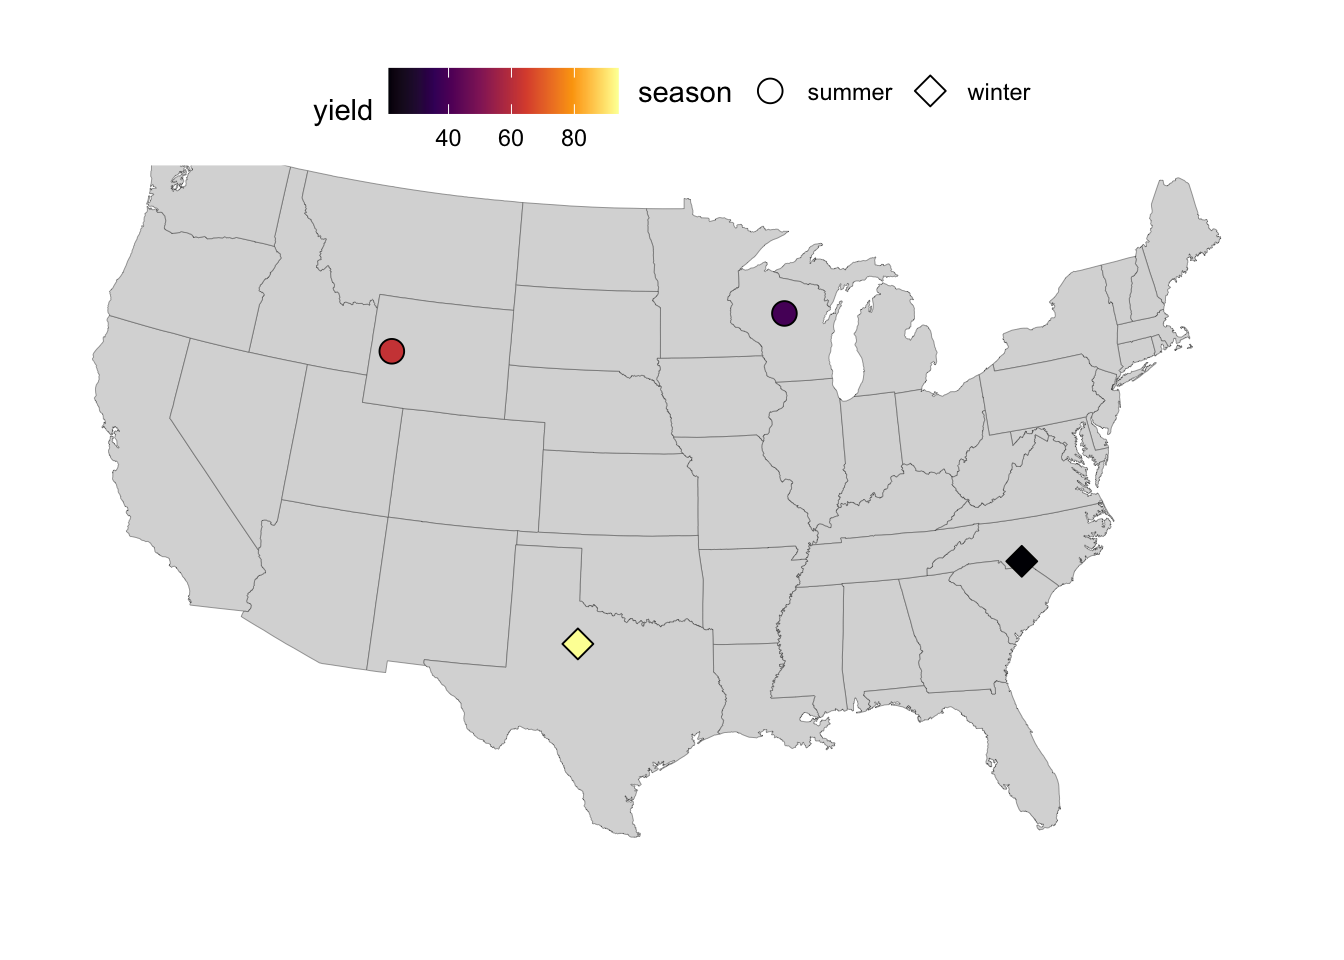
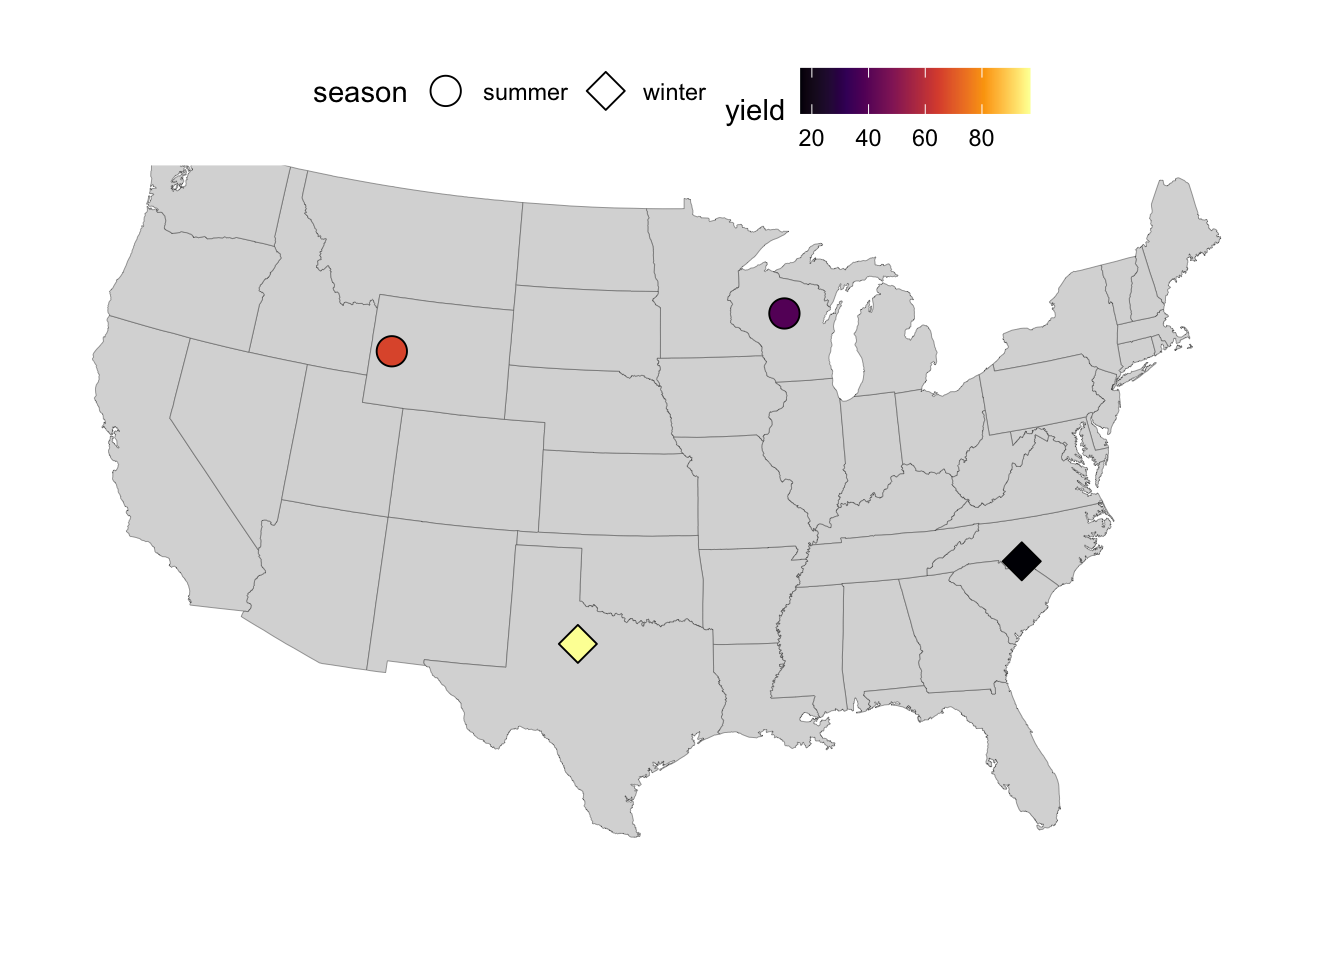
Built site for gh-pages

diff --git a/posts/S09E06_maps_02/index.html b/posts/S09E06_maps_02/index.html
@@ -376,7 +376,7 @@ pre > code.sourceCode > span > a:first-child::before { text-decoration: underlin
 <section id="adding-single-text-labels-and-points" class="level3">
 <h3 class="anchored" data-anchor-id="adding-single-text-labels-and-points">Adding single text labels and points</h3>
 <p>We can add points to a map with the familiar geom <code>geom_point()</code>. We have previoulsy used this to make scatterplots based on data in a data frame, but it can plot points at individually-specified locations, too.</p>
-<p>As a first example, we’ll just add a single point to show where the city of Columbus is, and set its coordinates on the fly (note, we’re not using <code>aes()</code>). We’ll use the <a href="https://bux.osu.edu/color/primary-colors/">OSU scarlet color via it’s Hex code</a> as the color for the point:</p>
+<p>As a first example, we’ll just add a single point to show where the city of Columbus is, and set its coordinates on the fly (<em>outside of</em> <code>aes()</code>). We will use the <a href="https://bux.osu.edu/color/primary-colors/">OSU scarlet color via its Hex code</a> as the color for the point:</p>
 <div class="cell">
 <div class="sourceCode cell-code" id="cb13"><pre class="sourceCode r code-with-copy"><code class="sourceCode r"><span id="cb13-1"><a href="#cb13-1" aria-hidden="true" tabindex="-1"></a>p <span class="sc">+</span></span>
 <span id="cb13-2"><a href="#cb13-2" aria-hidden="true" tabindex="-1"></a>  <span class="fu">geom_point</span>(<span class="at">x =</span> <span class="sc">-</span><span class="fl">82.99</span>, <span class="at">y =</span> <span class="fl">39.99</span>, <span class="at">colour =</span> <span class="st">"#ba0c2f"</span>, <span class="at">size =</span> <span class="dv">4</span>)</span></code><button title="Copy to Clipboard" class="code-copy-button"><i class="bi"></i></button></pre></div>
@@ -388,7 +388,7 @@ pre > code.sourceCode > span > a:first-child::before { text-decoration: underlin
 </div>
 </div>
 </div>
-<p>We can pretty easily add arbitrary text in a similar fashion with <code>geom_text()</code>, in which we specify the text we want to print using the <code>label</code> argument — note that I’m subtracting <code>1</code> from the latitude so the text ends up a bit below the point and not right on top of it:</p>
+<p>We can add arbitrary text labels in a similar fashion, with the geom <code>geom_text()</code>, in which we specify the text that we want to print using the <code>label</code> argument (and note that I’m subtracting <code>1</code> from the latitude so the text ends up a bit below the point and not right on top of it):</p>
 <div class="cell">
 <div class="sourceCode cell-code" id="cb14"><pre class="sourceCode r code-with-copy"><code class="sourceCode r"><span id="cb14-1"><a href="#cb14-1" aria-hidden="true" tabindex="-1"></a>p <span class="sc">+</span></span>
 <span id="cb14-2"><a href="#cb14-2" aria-hidden="true" tabindex="-1"></a>  <span class="fu">geom_point</span>(<span class="at">x =</span> <span class="sc">-</span><span class="fl">82.99</span>, <span class="at">y =</span> <span class="fl">39.99</span>, <span class="at">colour =</span> <span class="st">"#ba0c2f"</span>, <span class="at">size =</span> <span class="dv">4</span>) <span class="sc">+</span></span>
@@ -412,23 +412,23 @@ pre > code.sourceCode > span > a:first-child::before { text-decoration: underlin
 <span id="cb15-3"><a href="#cb15-3" aria-hidden="true" tabindex="-1"></a>  <span class="at">long =</span> <span class="fu">c</span>(<span class="sc">-</span><span class="dv">80</span>, <span class="sc">-</span><span class="dv">100</span>, <span class="sc">-</span><span class="dv">90</span>, <span class="sc">-</span><span class="dv">110</span>),</span>
 <span id="cb15-4"><a href="#cb15-4" aria-hidden="true" tabindex="-1"></a>  <span class="at">lat =</span> <span class="fu">c</span>(<span class="dv">35</span>, <span class="dv">33</span>, <span class="dv">45</span>, <span class="dv">43</span>),</span>
 <span id="cb15-5"><a href="#cb15-5" aria-hidden="true" tabindex="-1"></a>  <span class="at">season =</span> <span class="fu">c</span>(<span class="st">"winter"</span>, <span class="st">"winter"</span>, <span class="st">"summer"</span>, <span class="st">"summer"</span>),</span>
-<span id="cb15-6"><a href="#cb15-6" aria-hidden="true" tabindex="-1"></a>  <span class="at">yield =</span> <span class="fu">c</span>(<span class="dv">21</span>, <span class="dv">94</span>, <span class="dv">39</span>, <span class="dv">62</span>)</span>
+<span id="cb15-6"><a href="#cb15-6" aria-hidden="true" tabindex="-1"></a>  <span class="at">yield =</span> <span class="fu">c</span>(<span class="dv">16</span>, <span class="dv">97</span>, <span class="dv">39</span>, <span class="dv">66</span>)</span>
 <span id="cb15-7"><a href="#cb15-7" aria-hidden="true" tabindex="-1"></a>)</span>
 <span id="cb15-8"><a href="#cb15-8" aria-hidden="true" tabindex="-1"></a></span>
 <span id="cb15-9"><a href="#cb15-9" aria-hidden="true" tabindex="-1"></a>locations</span></code><button title="Copy to Clipboard" class="code-copy-button"><i class="bi"></i></button></pre></div>
 <div class="cell-output cell-output-stdout">
 <pre><code>  location long lat season yield
-1      L01  -80  35 winter    21
-2      L02 -100  33 winter    94
+1      L01  -80  35 winter    16
+2      L02 -100  33 winter    97
 3      L03  -90  45 summer    39
-4      L04 -110  43 summer    62</code></pre>
+4      L04 -110  43 summer    66</code></pre>
 </div>
 </div>
 <p>Now, we can add a layer to our saved plot <code>p</code> with the sampling locations — note that:</p>
 <ul>
 <li>We are giving <code>geom_point()</code> “its own” data set with the <code>data =</code> argument</li>
 <li>We map the <code>fill</code> aesthetic to the <code>season</code> column so we can distinguish samples from different seasons</li>
-<li>We use point shape 21 (see <a href="https://www.sthda.com/english/wiki/ggplot2-point-shapes">this overview of R point shapes</a>) which allows for a <code>fill</code> color as well as an outline color (the latter via <code>color</code>):</li>
+<li>We use point shape 21 (see <a href="https://www.sthda.com/english/wiki/ggplot2-point-shapes">this overview of R point shapes</a>), which allows for a <code>fill</code> color (separate from the outline color which can be set with <code>color</code>):</li>
 </ul>
 <div class="cell">
 <div class="sourceCode cell-code" id="cb17"><pre class="sourceCode r code-with-copy"><code class="sourceCode r"><span id="cb17-1"><a href="#cb17-1" aria-hidden="true" tabindex="-1"></a>p <span class="sc">+</span></span>
@@ -463,13 +463,19 @@ Click here for some hints
 <summary>
 Click here for possible solutions with point size
 </summary>
+<hr style="height:1pt; visibility:hidden;">
+<ul>
+<li>Make points vary in size according to the values in the <code>yield</code> column by including <code>size = yield</code> inside <code>aes()</code>:</li>
+</ul>
 <div class="cell">
-<div class="sourceCode cell-code" id="cb18"><pre class="sourceCode r code-with-copy"><code class="sourceCode r"><span id="cb18-1"><a href="#cb18-1" aria-hidden="true" tabindex="-1"></a>p <span class="sc">+</span> </span>
+<div class="sourceCode cell-code" id="cb18"><pre class="sourceCode r code-with-copy"><code class="sourceCode r"><span id="cb18-1"><a href="#cb18-1" aria-hidden="true" tabindex="-1"></a>p_size <span class="ot">&lt;-</span> p <span class="sc">+</span> </span>
 <span id="cb18-2"><a href="#cb18-2" aria-hidden="true" tabindex="-1"></a>  <span class="fu">geom_point</span>(</span>
 <span id="cb18-3"><a href="#cb18-3" aria-hidden="true" tabindex="-1"></a>    <span class="at">data =</span> locations,</span>
 <span id="cb18-4"><a href="#cb18-4" aria-hidden="true" tabindex="-1"></a>    <span class="fu">aes</span>(<span class="at">x =</span> long, <span class="at">y =</span> lat, <span class="at">fill =</span> season, <span class="at">size =</span> yield),</span>
 <span id="cb18-5"><a href="#cb18-5" aria-hidden="true" tabindex="-1"></a>    <span class="at">shape =</span> <span class="dv">21</span></span>
-<span id="cb18-6"><a href="#cb18-6" aria-hidden="true" tabindex="-1"></a>    )</span></code><button title="Copy to Clipboard" class="code-copy-button"><i class="bi"></i></button></pre></div>
+<span id="cb18-6"><a href="#cb18-6" aria-hidden="true" tabindex="-1"></a>    )</span>
+<span id="cb18-7"><a href="#cb18-7" aria-hidden="true" tabindex="-1"></a></span>
+<span id="cb18-8"><a href="#cb18-8" aria-hidden="true" tabindex="-1"></a>p_size</span></code><button title="Copy to Clipboard" class="code-copy-button"><i class="bi"></i></button></pre></div>
 <div class="cell-output-display">
 <div>
 <figure class="figure">
@@ -478,15 +484,16 @@ Click here for possible solutions with point size
 </div>
 </div>
 </div>
-<p>That produces quite a small point for the location with the lowest yield – we could restrict the size range of the points like so:</p>
+<ul>
+<li>As an aside, the above legend had quite a small point size for the location with the lowest yield – to improve that, we can expand the <code>limits</code> of the scale, and optionally also play around with the <code>range</code> of point sizes and the <code>breaks</code>, i.e.&nbsp;the values that get displayed in the legend:</li>
+</ul>
 <div class="cell">
-<div class="sourceCode cell-code" id="cb19"><pre class="sourceCode r code-with-copy"><code class="sourceCode r"><span id="cb19-1"><a href="#cb19-1" aria-hidden="true" tabindex="-1"></a>p <span class="sc">+</span> </span>
-<span id="cb19-2"><a href="#cb19-2" aria-hidden="true" tabindex="-1"></a>  <span class="fu">geom_point</span>(</span>
-<span id="cb19-3"><a href="#cb19-3" aria-hidden="true" tabindex="-1"></a>    <span class="at">data =</span> locations,</span>
-<span id="cb19-4"><a href="#cb19-4" aria-hidden="true" tabindex="-1"></a>    <span class="fu">aes</span>(<span class="at">x =</span> long, <span class="at">y =</span> lat, <span class="at">fill =</span> season, <span class="at">size =</span> yield),</span>
-<span id="cb19-5"><a href="#cb19-5" aria-hidden="true" tabindex="-1"></a>    <span class="at">shape =</span> <span class="dv">21</span></span>
-<span id="cb19-6"><a href="#cb19-6" aria-hidden="true" tabindex="-1"></a>    ) <span class="sc">+</span></span>
-<span id="cb19-7"><a href="#cb19-7" aria-hidden="true" tabindex="-1"></a>  <span class="fu">scale_size_continuous</span>(<span class="at">range =</span> <span class="fu">c</span>(<span class="fl">2.5</span>, <span class="dv">6</span>))</span></code><button title="Copy to Clipboard" class="code-copy-button"><i class="bi"></i></button></pre></div>
+<div class="sourceCode cell-code" id="cb19"><pre class="sourceCode r code-with-copy"><code class="sourceCode r"><span id="cb19-1"><a href="#cb19-1" aria-hidden="true" tabindex="-1"></a>p_size <span class="sc">+</span></span>
+<span id="cb19-2"><a href="#cb19-2" aria-hidden="true" tabindex="-1"></a>  <span class="fu">scale_size_continuous</span>(</span>
+<span id="cb19-3"><a href="#cb19-3" aria-hidden="true" tabindex="-1"></a>    <span class="at">limits =</span> <span class="fu">c</span>(<span class="dv">0</span>, <span class="dv">100</span>),</span>
+<span id="cb19-4"><a href="#cb19-4" aria-hidden="true" tabindex="-1"></a>    <span class="at">breaks =</span> <span class="fu">c</span>(<span class="dv">10</span>, <span class="dv">50</span>, <span class="dv">100</span>),</span>
+<span id="cb19-5"><a href="#cb19-5" aria-hidden="true" tabindex="-1"></a>    <span class="at">range =</span> <span class="fu">c</span>(<span class="dv">1</span>, <span class="dv">10</span>)</span>
+<span id="cb19-6"><a href="#cb19-6" aria-hidden="true" tabindex="-1"></a>    )</span></code><button title="Copy to Clipboard" class="code-copy-button"><i class="bi"></i></button></pre></div>
 <div class="cell-output-display">
 <div>
 <figure class="figure">
@@ -500,16 +507,21 @@ Click here for possible solutions with point size
 <summary>
 Click here for possible solutions with point fill color
 </summary>
-<p>If we want to use <code>fill</code> color instead for <code>yield</code>, we’ll need another aesthetic for <code>season</code>, e.g.&nbsp;<code>shape</code>:</p>
+<hr style="height:1pt; visibility:hidden;">
+<ul>
+<li>If we want to use <code>fill</code> color instead for <code>yield</code>, we’ll need a different aesthetic for <code>season</code>, e.g.&nbsp;<code>shape</code>:</li>
+</ul>
 <div class="cell">
-<div class="sourceCode cell-code" id="cb20"><pre class="sourceCode r code-with-copy"><code class="sourceCode r"><span id="cb20-1"><a href="#cb20-1" aria-hidden="true" tabindex="-1"></a>p <span class="sc">+</span> </span>
+<div class="sourceCode cell-code" id="cb20"><pre class="sourceCode r code-with-copy"><code class="sourceCode r"><span id="cb20-1"><a href="#cb20-1" aria-hidden="true" tabindex="-1"></a>p_fill <span class="ot">&lt;-</span> p <span class="sc">+</span></span>
 <span id="cb20-2"><a href="#cb20-2" aria-hidden="true" tabindex="-1"></a>  <span class="fu">geom_point</span>(</span>
 <span id="cb20-3"><a href="#cb20-3" aria-hidden="true" tabindex="-1"></a>    <span class="at">data =</span> locations,</span>
 <span id="cb20-4"><a href="#cb20-4" aria-hidden="true" tabindex="-1"></a>    <span class="fu">aes</span>(<span class="at">x =</span> long, <span class="at">y =</span> lat, <span class="at">shape =</span> season, <span class="at">fill =</span> yield),</span>
-<span id="cb20-5"><a href="#cb20-5" aria-hidden="true" tabindex="-1"></a>    <span class="at">size =</span> <span class="dv">4</span></span>
+<span id="cb20-5"><a href="#cb20-5" aria-hidden="true" tabindex="-1"></a>    <span class="at">size =</span> <span class="dv">5</span></span>
 <span id="cb20-6"><a href="#cb20-6" aria-hidden="true" tabindex="-1"></a>    ) <span class="sc">+</span></span>
 <span id="cb20-7"><a href="#cb20-7" aria-hidden="true" tabindex="-1"></a>  <span class="co"># Make sure the shapes support a fill color (the default ones don't):</span></span>
-<span id="cb20-8"><a href="#cb20-8" aria-hidden="true" tabindex="-1"></a>  <span class="fu">scale_shape_manual</span>(<span class="at">values =</span> <span class="fu">c</span>(<span class="dv">21</span>, <span class="dv">23</span>))</span></code><button title="Copy to Clipboard" class="code-copy-button"><i class="bi"></i></button></pre></div>
+<span id="cb20-8"><a href="#cb20-8" aria-hidden="true" tabindex="-1"></a>  <span class="fu">scale_shape_manual</span>(<span class="at">values =</span> <span class="fu">c</span>(<span class="dv">21</span>, <span class="dv">23</span>))</span>
+<span id="cb20-9"><a href="#cb20-9" aria-hidden="true" tabindex="-1"></a></span>
+<span id="cb20-10"><a href="#cb20-10" aria-hidden="true" tabindex="-1"></a>p_fill</span></code><button title="Copy to Clipboard" class="code-copy-button"><i class="bi"></i></button></pre></div>
 <div class="cell-output-display">
 <div>
 <figure class="figure">
@@ -518,17 +530,12 @@ Click here for possible solutions with point fill color
 </div>
 </div>
 </div>
-<p>For a nicer-looking fill color scale, we can change to one of the <a href="https://cran.r-project.org/web/packages/viridis/vignettes/intro-to-viridis.html">viridis</a> color scales:</p>
+<ul>
+<li>For a nicer-looking fill color scale, we can change to one of the <a href="https://cran.r-project.org/web/packages/viridis/vignettes/intro-to-viridis.html">viridis</a> color scales:</li>
+</ul>
 <div class="cell">
-<div class="sourceCode cell-code" id="cb21"><pre class="sourceCode r code-with-copy"><code class="sourceCode r"><span id="cb21-1"><a href="#cb21-1" aria-hidden="true" tabindex="-1"></a>p <span class="sc">+</span> </span>
-<span id="cb21-2"><a href="#cb21-2" aria-hidden="true" tabindex="-1"></a>  <span class="fu">geom_point</span>(</span>
-<span id="cb21-3"><a href="#cb21-3" aria-hidden="true" tabindex="-1"></a>    <span class="at">data =</span> locations,</span>
-<span id="cb21-4"><a href="#cb21-4" aria-hidden="true" tabindex="-1"></a>    <span class="fu">aes</span>(<span class="at">x =</span> long, <span class="at">y =</span> lat, <span class="at">shape =</span> season, <span class="at">fill =</span> yield),</span>
-<span id="cb21-5"><a href="#cb21-5" aria-hidden="true" tabindex="-1"></a>    <span class="at">size =</span> <span class="dv">4</span></span>
-<span id="cb21-6"><a href="#cb21-6" aria-hidden="true" tabindex="-1"></a>    ) <span class="sc">+</span></span>
-<span id="cb21-7"><a href="#cb21-7" aria-hidden="true" tabindex="-1"></a>  <span class="co"># Make sure the shapes support a fill color (the default ones don't):</span></span>
-<span id="cb21-8"><a href="#cb21-8" aria-hidden="true" tabindex="-1"></a>  <span class="fu">scale_shape_manual</span>(<span class="at">values =</span> <span class="fu">c</span>(<span class="dv">21</span>, <span class="dv">23</span>)) <span class="sc">+</span></span>
-<span id="cb21-9"><a href="#cb21-9" aria-hidden="true" tabindex="-1"></a>  <span class="fu">scale_fill_viridis_c</span>(<span class="at">option =</span> <span class="st">"inferno"</span>)</span></code><button title="Copy to Clipboard" class="code-copy-button"><i class="bi"></i></button></pre></div>
+<div class="sourceCode cell-code" id="cb21"><pre class="sourceCode r code-with-copy"><code class="sourceCode r"><span id="cb21-1"><a href="#cb21-1" aria-hidden="true" tabindex="-1"></a>p_fill <span class="sc">+</span></span>
+<span id="cb21-2"><a href="#cb21-2" aria-hidden="true" tabindex="-1"></a>  <span class="fu">scale_fill_viridis_c</span>(<span class="at">option =</span> <span class="st">"inferno"</span>)</span></code><button title="Copy to Clipboard" class="code-copy-button"><i class="bi"></i></button></pre></div>
 <div class="cell-output-display">
 <div>
 <figure class="figure">
@@ -617,7 +624,7 @@ Click here for possible solutions with point fill color
 </div>
 </div>
 </div>
-<p>We can now use this as a <strong>base map</strong> to plot points on, like we did above with the US map. Or we could create a map where counties differ in fill color depending on some variable, like the number of farms or eagle nests in each county.</p>
+<p>We can use this as a <strong>base map</strong> to plot points on, like we did above with the US map. Or we could create a map where counties differ in fill color depending on some variable, like the number of farms or eagle nests in each county.</p>
 <hr style="height:1pt; visibility:hidden;">
 </section>
 <section id="adding-county-names" class="level3">
@@ -830,7 +837,7 @@ Click here for the solution
 </section>
 <section id="plotting-ohio-cities" class="level2" data-number="4">
 <h2 data-number="4" class="anchored" data-anchor-id="plotting-ohio-cities"><span class="header-section-number">4</span> Plotting Ohio cities</h2>
-<p>Next, we’ll add all larger Ohio cities to our Ohio map. From the <em>maps</em> package, we can use the <code>us.cities</code> dataframe which contains US cities with populations greater than about 40,000:</p>
+<p>Finally, we’ll add all larger Ohio cities to our Ohio map. From the <em>maps</em> package, we can use the <code>us.cities</code> dataframe which contains US cities with populations greater than about 40,000:</p>
 <div class="cell">
 <div class="sourceCode cell-code" id="cb40"><pre class="sourceCode r code-with-copy"><code class="sourceCode r"><span id="cb40-1"><a href="#cb40-1" aria-hidden="true" tabindex="-1"></a><span class="co"># 'us.cities' should be available if you have loaded the maps package</span></span>
 <span id="cb40-2"><a href="#cb40-2" aria-hidden="true" tabindex="-1"></a><span class="fu">head</span>(us.cities)</span></code><button title="Copy to Clipboard" class="code-copy-button"><i class="bi"></i></button></pre></div>

diff --git a/index.html b/index.html
@@ -278,7 +278,7 @@ window.Quarto = {
     </div>
 </div>
 <div class="list quarto-listing-default">
-<div class="quarto-post image-right" data-index="0" data-categories="bWFwcyUyQ2dncGxvdDIlMkNkYXRhdml6" data-listing-date-sort="1740459600000" data-listing-file-modified-sort="1740342307250" data-listing-date-modified-sort="NaN" data-listing-reading-time-sort="16" data-listing-word-count-sort="3136">
+<div class="quarto-post image-right" data-index="0" data-categories="bWFwcyUyQ2dncGxvdDIlMkNkYXRhdml6" data-listing-date-sort="1740459600000" data-listing-file-modified-sort="1740426681881" data-listing-date-modified-sort="NaN" data-listing-reading-time-sort="16" data-listing-word-count-sort="3144">
 <div class="thumbnail">
 <p><a href="./posts/S09E06_maps_02/index.html" class="no-external"></a></p><a href="./posts/S09E06_maps_02/index.html" class="no-external">
 <p class="card-img-top"><img src="posts/S09E06_maps_02/index_files/figure-html/unnamed-chunk-26-1.png"  class="thumbnail-image card-img"/></p>
